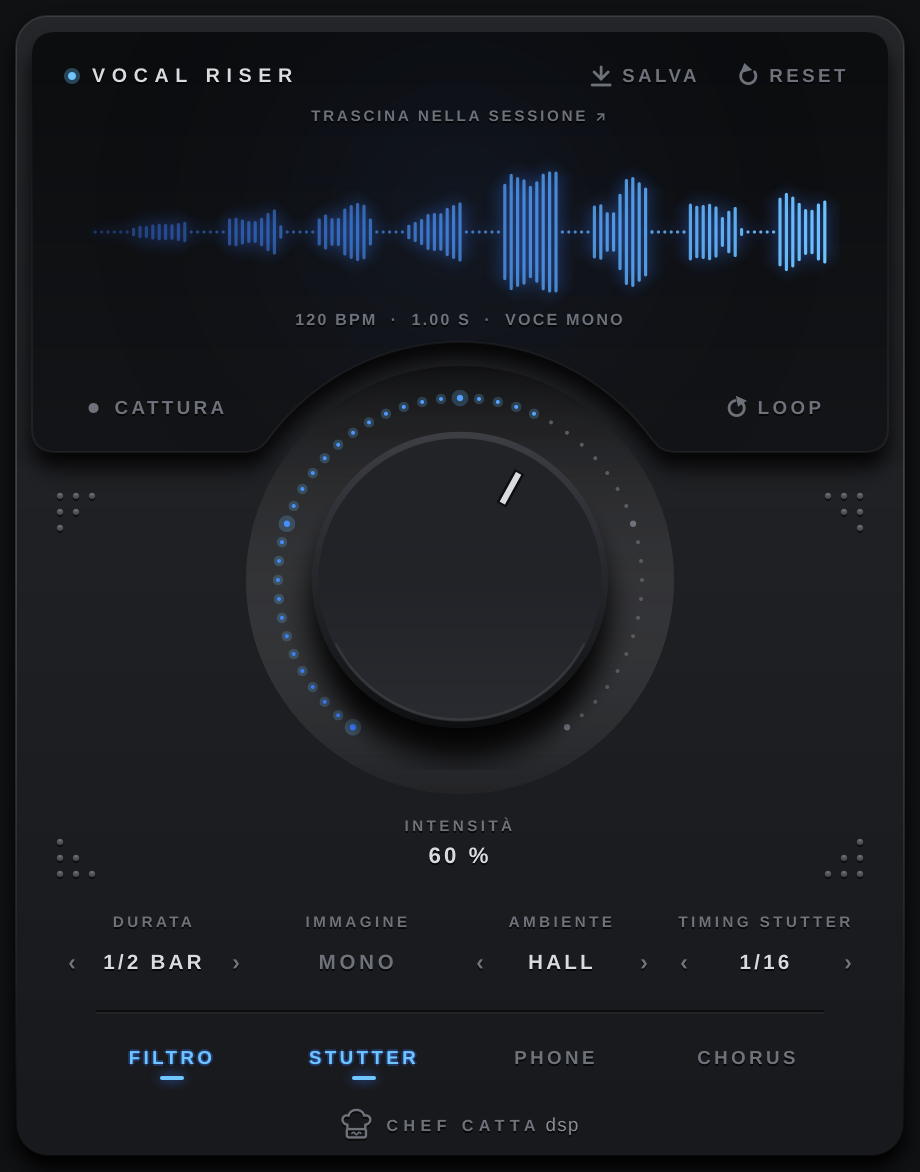
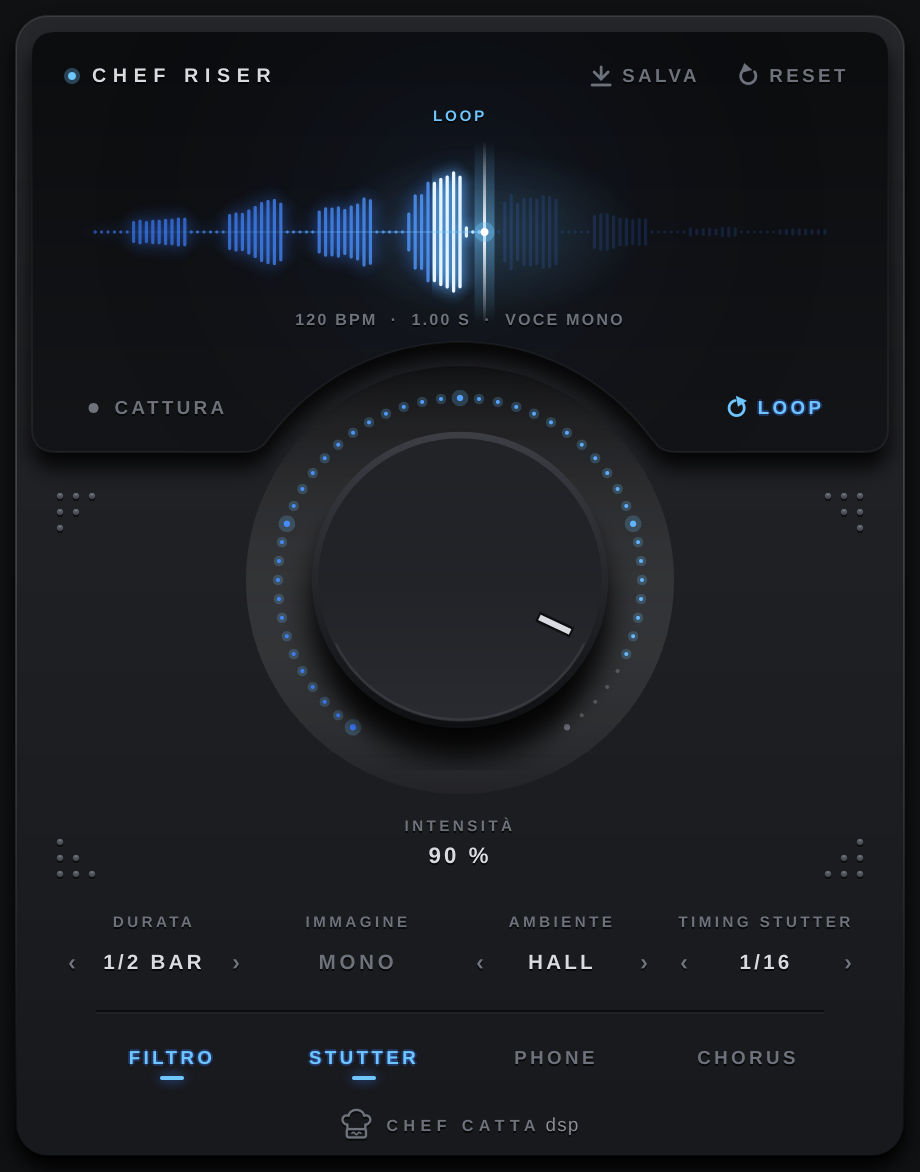
Il plugin si chiama Chef Riser (versione 1.1.0)
Claude-Session: https://claude.ai/code/session_01HaF7XKr7HpkpQMPQsrDZc5

diff --git a/Source/PluginProcessor.cpp b/Source/PluginProcessor.cpp
@@ -99,7 +99,7 @@ namespace
 class RiserRenderThread : public juce::Thread
 {
 public:
-    explicit RiserRenderThread (VocalRiserAudioProcessor& p) : juce::Thread ("VocalRiser render"), owner (p) {}
+    explicit RiserRenderThread (VocalRiserAudioProcessor& p) : juce::Thread ("ChefRiser render"), owner (p) {}
 
     void request() { pending.store (true); notify(); }
 
@@ -644,11 +644,11 @@ juce::File VocalRiserAudioProcessor::writeRiserFile()
         buf = rendered; rate = renderedSr; name = renderedName;
     }
 
-    auto folder = File::getSpecialLocation (File::userDocumentsDirectory).getChildFile ("Vocal Riser");
+    auto folder = File::getSpecialLocation (File::userDocumentsDirectory).getChildFile ("Chef Riser");
     if (! folder.createDirectory())
         folder = File::getSpecialLocation (File::tempDirectory);
 
-    auto file = folder.getNonexistentChildFile ("VocalRiser_" + name + "_" + Time::getCurrentTime().formatted ("%H%M%S"),
+    auto file = folder.getNonexistentChildFile ("ChefRiser_" + name + "_" + Time::getCurrentTime().formatted ("%H%M%S"),
                                                 ".wav", false);
 
     WavAudioFormat wav;

diff --git a/Source/PluginEditor.cpp b/Source/PluginEditor.cpp
@@ -658,7 +658,7 @@ void VocalRiserAudioProcessorEditor::paintStatic (juce::Graphics& g)
     g.setColour (Colours::accent2);
     g.fillEllipse (d.getX() + 18.0f, titleR.getCentreY() - 2.0f, 4.0f, 4.0f);
     g.setFont (labelFont (11.0f, 0.3f));
-    engravedText (g, "VOCAL RISER", titleR, juce::Justification::centredLeft, Colours::text);
+    engravedText (g, "CHEF RISER", titleR, juce::Justification::centredLeft, Colours::text);
 
 
     // Alloggiamento morbido della manopola, dentro l'incavo

diff --git a/Source/PluginProcessor.h b/Source/PluginProcessor.h
@@ -27,7 +27,7 @@ public:
     juce::AudioProcessorEditor* createEditor() override;
     bool hasEditor() const override { return true; }
 
-    const juce::String getName() const override { return "Vocal Riser"; }
+    const juce::String getName() const override { return "Chef Riser"; }
     bool acceptsMidi() const override  { return false; }
     bool producesMidi() const override { return false; }
     bool isMidiEffect() const override { return false; }

diff --git a/INSTALLAZIONE.md b/INSTALLAZIONE.md
@@ -1,4 +1,4 @@
-# Vocal Riser — Installazione
+# Chef Riser — Installazione
 
 **CHEF CATTA dsp**
 
@@ -7,8 +7,8 @@ Scarica il file giusto per il tuo computer dalla pagina **Releases** del progett
 
 | Computer | File da scaricare | Cosa contiene |
 |---|---|---|
-| Mac (Apple Silicon e Intel, macOS 11 o successivo) | `VocalRiser-mac.zip` | `Vocal Riser.component` (Audio Unit) e `Vocal Riser.vst3` |
-| Windows 10/11 a 64 bit | `VocalRiser-windows.zip` | `Vocal Riser.vst3` |
+| Mac (Apple Silicon e Intel, macOS 11 o successivo) | `ChefRiser-mac.zip` | `Chef Riser.component` (Audio Unit) e `Chef Riser.vst3` |
+| Windows 10/11 a 64 bit | `ChefRiser-windows.zip` | `Chef Riser.vst3` |
 
 Quale formato usa la tua DAW:
 
@@ -27,26 +27,28 @@ Quale formato usa la tua DAW:
 
 ## 1. Copiare il plugin nella cartella giusta
 
+> **Avevi la versione precedente "Vocal Riser"?** Il plugin ora si chiama **Chef Riser**. Prima di installarlo cancella i vecchi file `Vocal Riser.component` e `Vocal Riser.vst3` dalle stesse cartelle (Mac) oppure `Vocal Riser.vst3` (Windows). Le sessioni in cui l'avevi già usato si aprono con Chef Riser senza fare nulla.
+
 ### Mac
 
-1. Fai doppio clic su `VocalRiser-mac.zip` per decomprimerlo.
+1. Fai doppio clic su `ChefRiser-mac.zip` per decomprimerlo.
 2. Nel Finder premi **Cmd + Shift + G** e incolla il percorso della cartella:
-   - `Vocal Riser.component` → `/Library/Audio/Plug-Ins/Components`
-   - `Vocal Riser.vst3` → `/Library/Audio/Plug-Ins/VST3`
+   - `Chef Riser.component` → `/Library/Audio/Plug-Ins/Components`
+   - `Chef Riser.vst3` → `/Library/Audio/Plug-Ins/VST3`
 
    Copia tutti e due: così il plugin funziona in qualsiasi DAW. Se il Finder chiede la password o se vuoi sostituire una versione precedente, conferma.
 3. **Sblocca il plugin.** Il plugin non è firmato da Apple, quindi la prima volta macOS lo blocca. Apri il **Terminale** (Cmd + Spazio, scrivi «Terminale»), incolla queste due righe e premi Invio. Ti chiederà la password del Mac: mentre la scrivi non compare nulla, è normale.
    ```
-   sudo xattr -cr "/Library/Audio/Plug-Ins/Components/Vocal Riser.component"
-   sudo xattr -cr "/Library/Audio/Plug-Ins/VST3/Vocal Riser.vst3"
+   sudo xattr -cr "/Library/Audio/Plug-Ins/Components/Chef Riser.component"
+   sudo xattr -cr "/Library/Audio/Plug-Ins/VST3/Chef Riser.vst3"
    ```
-   In alternativa, se all'apertura della DAW compare l'avviso *«Vocal Riser… non è stata aperta»*, premi **Fine** (non «Sposta nel Cestino»). Poi vai su **Impostazioni di Sistema → Privacy e sicurezza**, scorri fino a **Sicurezza** e premi **«Apri comunque»**.
+   In alternativa, se all'apertura della DAW compare l'avviso *«Chef Riser… non è stata aperta»*, premi **Fine** (non «Sposta nel Cestino»). Poi vai su **Impostazioni di Sistema → Privacy e sicurezza**, scorri fino a **Sicurezza** e premi **«Apri comunque»**.
 
 ### Windows
 
-1. **Prima di decomprimere** fai clic destro su `VocalRiser-windows.zip` → **Proprietà**. Se in basso c'è la casella **«Sblocca»**, spuntala e premi OK.
+1. **Prima di decomprimere** fai clic destro su `ChefRiser-windows.zip` → **Proprietà**. Se in basso c'è la casella **«Sblocca»**, spuntala e premi OK.
 2. Clic destro sullo zip → **Estrai tutto**.
-3. Copia la cartella `Vocal Riser.vst3` in:
+3. Copia la cartella `Chef Riser.vst3` in:
    ```
    C:\Program Files\Common Files\VST3
    ```
@@ -56,65 +58,65 @@ Quale formato usa la tua DAW:
 
 ## 2. Far trovare il plugin alla DAW
 
-Dopo aver copiato il plugin, apri (o riavvia) la DAW e fai una nuova scansione dei plugin. Lo sviluppatore è **Chef Catta** e il plugin si chiama **Vocal Riser**.
+Dopo aver copiato il plugin, apri (o riavvia) la DAW e fai una nuova scansione dei plugin. Lo sviluppatore è **Chef Catta** e il plugin si chiama **Chef Riser**.
 
 ### Logic Pro (Mac)
 1. Apri Logic. Al primo avvio scansiona da solo i nuovi plugin.
 2. Se non compare, vai su **Logic Pro → Impostazioni → Plug-in Manager**. Cerca «Vocal», seleziona la riga e premi **Reset & Rescan Selection** (in basso a sinistra). Controlla che la casella **Usa** sia spuntata.
-3. Su una traccia audio: slot **Audio FX → Audio Units → Chef Catta → Vocal Riser**.
+3. Su una traccia audio: slot **Audio FX → Audio Units → Chef Catta → Chef Riser**.
 
 ### GarageBand (Mac)
 1. Apri GarageBand e seleziona la traccia della voce.
-2. Apri gli **Smart Controls** (tasto B), poi la sezione **Plug-in**. In uno slot vuoto scegli **Audio Units → Chef Catta → Vocal Riser**.
+2. Apri gli **Smart Controls** (tasto B), poi la sezione **Plug-in**. In uno slot vuoto scegli **Audio Units → Chef Catta → Chef Riser**.
 
 ### Ableton Live (Mac e Windows)
 1. **Impostazioni** (Mac: *Live → Impostazioni*; Windows: *Options → Preferences*) → scheda **Plug-in**.
 2. Attiva **Usa cartelle di sistema per plug-in VST3** («Use VST3 Plug-In System Folders»). Su Mac puoi attivare anche **Usa Audio Units**.
 3. Premi **Ripeti scansione** (Rescan).
-4. Nel browser, sotto **Plug-in**, apri **Chef Catta** e trascina **Vocal Riser** sulla traccia della voce.
+4. Nel browser, sotto **Plug-in**, apri **Chef Catta** e trascina **Chef Riser** sulla traccia della voce.
 
 ### FL Studio (Mac e Windows)
 1. **Options → Manage plugins**.
 2. Premi **Find installed plugins** (oppure *Start scan*) e attendi la fine della scansione.
-3. Nel Mixer, sulla traccia della voce, apri uno slot vuoto e scegli **Vocal Riser**. Lo trovi anche nel *Plugin database* sotto *Effects*.
+3. Nel Mixer, sulla traccia della voce, apri uno slot vuoto e scegli **Chef Riser**. Lo trovi anche nel *Plugin database* sotto *Effects*.
 
 ### Cubase / Nuendo (Mac e Windows)
 1. Cubase scansiona i plugin VST3 all'avvio: riavvialo dopo l'installazione.
 2. Se non lo vedi: **Studio → VST Plug-in Manager**. Se è nella lista dei plug-in bloccati, selezionalo e riattivalo.
-3. Sulla traccia della voce: **Insert → Chef Catta → Vocal Riser**.
+3. Sulla traccia della voce: **Insert → Chef Catta → Chef Riser**.
 
 ### Studio One (Mac e Windows)
 1. Studio One scansiona i plugin all'avvio: riavvialo.
 2. Se non compare: **Studio One → Opzioni** (Windows: *Studio One → Options*) → **Posizioni → Plug-in VST**. Controlla che ci sia la cartella VST3 di sistema, premi **Reimposta blocklist** e riavvia.
-3. Nel browser **Effetti** trovi **Vocal Riser** sotto **Chef Catta**: trascinalo sulla traccia.
+3. Nel browser **Effetti** trovi **Chef Riser** sotto **Chef Catta**: trascinalo sulla traccia.
 
 ### Reaper (Mac e Windows)
 1. **Options → Preferences → Plug-ins → VST**.
 2. Controlla che il percorso dei VST3 sia incluso e premi **Re-scan** (oppure *Clear cache/re-scan*).
-3. Sulla traccia: pulsante **FX → Add → All plugins → Vocal Riser (Chef Catta)**. Su Mac lo trovi anche tra gli **AU**.
+3. Sulla traccia: pulsante **FX → Add → All plugins → Chef Riser (Chef Catta)**. Su Mac lo trovi anche tra gli **AU**.
 
 ### Bitwig Studio (Mac e Windows)
 1. **Settings → Locations**: controlla che la posizione VST3 predefinita sia attiva. Bitwig scansiona da solo.
-2. Nel browser dei dispositivi cerca **Vocal Riser** e trascinalo sulla traccia.
+2. Nel browser dei dispositivi cerca **Chef Riser** e trascinalo sulla traccia.
 
 ---
 
 ## 3. Come si usa (in breve)
 
-1. Metti **Vocal Riser** come effetto (insert) sulla traccia della voce.
+1. Metti **Chef Riser** come effetto (insert) sulla traccia della voce.
 2. Premi **CATTURA**, porta il playhead poco prima della frase e premi **play**: il plugin ascolta la frase e crea il riser dalla prima parte della prima parola.
 3. Regola **INTENSITÀ**, **DURATA**, **AMBIENTE**, **IMMAGINE** e gli effetti.
 4. Accendi **LOOP** per ascoltare il riser in loop a trasporto fermo. In Logic tieni selezionata la traccia.
-5. **Trascina la forma d'onda** su una traccia audio e allinea la **fine** della clip all'attacco della voce. Se la tua DAW non accetta il trascinamento, premi **SALVA**: il WAV finisce in `Documenti/Vocal Riser`.
+5. **Trascina la forma d'onda** su una traccia audio e allinea la **fine** della clip all'attacco della voce. Se la tua DAW non accetta il trascinamento, premi **SALVA**: il WAV finisce in `Documenti/Chef Riser`.
 
 ---
 
 ## Pro Tools
 
-Pro Tools usa solo il formato **AAX** di Avid, che per ora non è disponibile per Vocal Riser. Per crearlo servono il kit di sviluppo di Avid e una firma digitale (PACE/iLok) senza cui Pro Tools non carica il plugin.
+Pro Tools usa solo il formato **AAX** di Avid, che per ora non è disponibile per Chef Riser. Per crearlo servono il kit di sviluppo di Avid e una firma digitale (PACE/iLok) senza cui Pro Tools non carica il plugin.
 
 Nel frattempo puoi:
-- usare Vocal Riser in un'altra DAW, anche gratuita (per esempio Reaper in prova), salvare il riser con **SALVA** e importare il WAV in Pro Tools;
+- usare Chef Riser in un'altra DAW, anche gratuita (per esempio Reaper in prova), salvare il riser con **SALVA** e importare il WAV in Pro Tools;
 - oppure usare un plugin "contenitore" AAX che carica i VST3 dentro Pro Tools, come **Blue Cat's PatchWork** (prodotto a pagamento di terze parti).
 
 ---
@@ -123,6 +125,6 @@ Nel frattempo puoi:
 
 - **Mac: «non è stata aperta» / «è danneggiato»** → esegui i comandi del passo 1.3 oppure premi «Apri comunque» in Privacy e sicurezza, poi rifai la scansione nella DAW.
 - **La DAW non trova il plugin** → controlla di averlo copiato nella cartella esatta indicata sopra (su Mac è `/Library`, non la cartella *Libreria* del tuo utente) e fai una nuova scansione.
-- **Windows: il plugin non compare** → controlla che la cartella copiata si chiami `Vocal Riser.vst3` e sia dentro `C:\Program Files\Common Files\VST3`. Le DAW a 32 bit non sono supportate.
+- **Windows: il plugin non compare** → controlla che la cartella copiata si chiami `Chef Riser.vst3` e sia dentro `C:\Program Files\Common Files\VST3`. Le DAW a 32 bit non sono supportate.
 - **Il loop non si sente in Logic** → seleziona la traccia su cui c'è il plugin: a trasporto fermo Logic fa lavorare solo la traccia selezionata. Se sul display compare «LOOP: SELEZIONA LA TRACCIA», è proprio questo il motivo.
 - **Aggiornare a una nuova versione** → chiudi la DAW, sostituisci i file nelle stesse cartelle, sbloccali di nuovo (passo 1.3) e riapri la DAW. I riser catturati nelle sessioni salvate restano.

diff --git a/README.md b/README.md
@@ -1,17 +1,17 @@
-# Vocal Riser
+# Chef Riser
 
 **CHEF CATTA dsp**
 
 Plugin per creare **riser vocali** in pochi secondi, direttamente in sessione. Ascolta la frase, prende l'attacco della prima parola e lo trasforma in una coda riversata e allungata, a tempo col progetto, da trascinare nella timeline.
 
-![Vocal Riser](screenshot.png)
+![Chef Riser](screenshot.png)
 
 ## ⬇ Download
 
 **[Scarica l'ultima versione](https://github.com/chefcatta/Vocal-Riser/releases/latest)**: nella pagina che si apre, sotto *Assets*:
 
-- **VocalRiser-mac.zip**: Mac (Apple Silicon e Intel), Audio Unit + VST3
-- **VocalRiser-windows.zip**: Windows 64 bit, VST3
+- **ChefRiser-mac.zip**: Mac (Apple Silicon e Intel), Audio Unit + VST3
+- **ChefRiser-windows.zip**: Windows 64 bit, VST3
 
 Funziona con Logic Pro, GarageBand, Ableton Live, FL Studio, Cubase, Studio One, Reaper, Bitwig e tutte le DAW che leggono Audio Unit o VST3. Pro Tools (AAX) non è ancora supportato.
 
@@ -19,13 +19,13 @@ Funziona con Logic Pro, GarageBand, Ableton Live, FL Studio, Cubase, Studio One,
 
 ## Come si usa
 
-1. Metti **Vocal Riser** come insert sulla traccia della voce.
+1. Metti **Chef Riser** come insert sulla traccia della voce.
 2. Premi **CATTURA**, porta il playhead poco prima della frase e premi **play**: il plugin ascolta la frase.
 3. Gira la manopola **INTENSITÀ** e scegli la **DURATA** (1/4, 1/2, 1 o 2 battute, a tempo col progetto).
 4. Accendi **LOOP**: con la DAW ferma il plugin suona il riser in loop, così lo regoli a orecchio. In Logic tieni selezionata la traccia.
 5. **Trascina la forma d'onda** su una traccia audio: il riser finisce esattamente dove attacca la voce, quindi allinea la **fine** della clip all'inizio della frase.
 
-**SALVA** scrive il WAV (24 bit) in `Documenti/Vocal Riser`. **RESET** riporta i controlli ai valori iniziali.
+**SALVA** scrive il WAV (24 bit) in `Documenti/Chef Riser`. **RESET** riporta i controlli ai valori iniziali.
 
 | Controllo | Cosa fa |
 |---|---|
